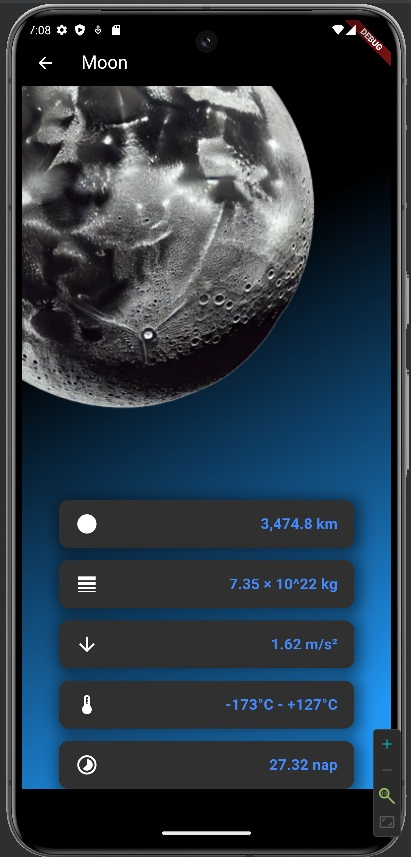
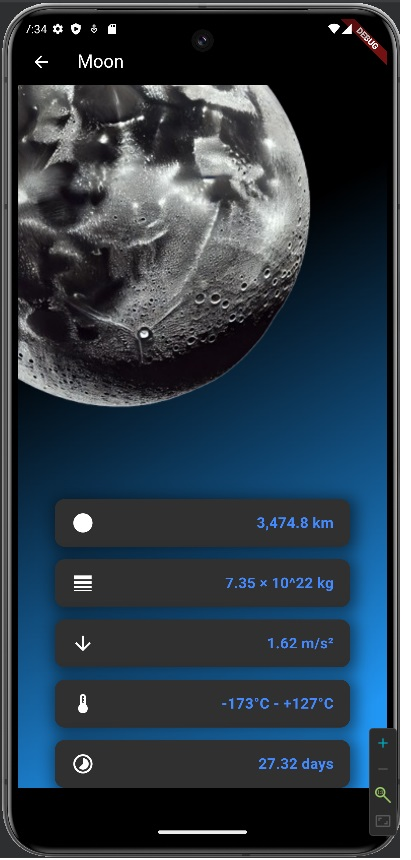
code format and minor fixes

diff --git a/planets/lib/model/planets_model.dart b/planets/lib/model/planets_model.dart
@@ -6,7 +6,6 @@ class CelestialBodyData {
   final String temperature;
   final String orbitalPeriod;
   final String imageUrl;
-  final List<String>? moons;
 
   CelestialBodyData({
     required this.name,
@@ -16,20 +15,18 @@ class CelestialBodyData {
     required this.temperature,
     required this.orbitalPeriod,
     required this.imageUrl,
-    this.moons,
   });
 }
 
 List<CelestialBodyData> getCelestialBodyData() {
   return [
-
     CelestialBodyData(
       name: "Earth",
       diameter: "12,742 km",
       mass: "5.97 × 10^24 kg",
       gravity: "9.81 m/s²",
       temperature: "-89.2°C - +58.3°C",
-      orbitalPeriod: "365.25 nap",
+      orbitalPeriod: "365.25 days",
       imageUrl: 'assets/images/earth.png',
     ),
     CelestialBodyData(
@@ -38,19 +35,17 @@ List<CelestialBodyData> getCelestialBodyData() {
       mass: "7.35 × 10^22 kg",
       gravity: "1.62 m/s²",
       temperature: "-173°C - +127°C",
-      orbitalPeriod: "27.32 nap",
+      orbitalPeriod: "27.32 days",
       imageUrl: 'assets/images/moon.png',
     ),
-
     CelestialBodyData(
       name: "Mars",
       diameter: "6,779 km",
       mass: "6.42 × 10^23 kg",
       gravity: "3.71 m/s²",
       temperature: "-87°C - -5°C",
-      orbitalPeriod: "687 nap",
+      orbitalPeriod: "687 days",
       imageUrl: 'assets/images/mars.png',
     ),
-
   ];
 }

diff --git a/planets/lib/components/scroll_image.dart b/planets/lib/components/scroll_image.dart
@@ -1,5 +1,4 @@
 import 'package:flutter/material.dart';
-
 import '../model/planets_model.dart';
 
 class ScrollImage extends StatefulWidget {
@@ -29,8 +28,7 @@ class _ScrollImageState extends State<ScrollImage> {
         mainAxisAlignment: MainAxisAlignment.spaceEvenly,
         crossAxisAlignment: CrossAxisAlignment.center,
         children: [
-          Container(
-            child: SingleChildScrollView(
+          SingleChildScrollView(
               scrollDirection: Axis.horizontal,
               child: Row(
                 children: [
@@ -67,7 +65,7 @@ class _ScrollImageState extends State<ScrollImage> {
                 ],
               ),
             ),
-          ),
+
         ],
       ),
     );

diff --git a/planets/lib/components/celestial_name.dart b/planets/lib/components/celestial_name.dart
@@ -1,9 +1,6 @@
 import 'package:flutter/material.dart';
 import '../model/planets_model.dart';
 
-import 'package:flutter/material.dart';
-import '../model/planets_model.dart';
-
 class CelestialName extends StatelessWidget {
   final List<CelestialBodyData> celestialDataList;
   final int currentIndex;
@@ -22,7 +19,7 @@ class CelestialName extends StatelessWidget {
       right: 0,
       child: Center(
         child: AnimatedSwitcher(
-          duration: Duration(seconds: 1),
+          duration: const Duration(seconds: 1),
           child: Text(
             celestialDataList[currentIndex].name,
             key: ValueKey<int>(currentIndex),

diff --git a/planets/lib/components/details_card.dart b/planets/lib/components/details_card.dart
@@ -1,7 +1,7 @@
 import 'package:flutter/material.dart';
 
 class DetailCard extends StatelessWidget {
-  final IconData icon;  // Changed from title to icon
+  final IconData icon;
   final String value;
 
   const DetailCard({Key? key, required this.icon, required this.value})
@@ -22,7 +22,7 @@ class DetailCard extends StatelessWidget {
               color: Colors.black.withOpacity(0.5),
               spreadRadius: 5,
               blurRadius: 15,
-              offset:const Offset(3, 3),
+              offset: const Offset(3, 3),
             ),
           ],
         ),

diff --git a/planets/lib/main.dart b/planets/lib/main.dart
@@ -11,9 +11,8 @@ class MyApp extends StatelessWidget {
   // This widget is the root of your application.
   @override
   Widget build(BuildContext context) {
-    return MaterialApp(
+    return const MaterialApp(
       home: HomePages(),
     );
   }
 }
-

diff --git a/planets/README.md b/planets/README.md
@@ -7,4 +7,4 @@ Inspiration: [Click](https://www.youtube.com/watch?v=gzU6_W48Kwc)
 ![Home](assets/images/gh-images/Home.jpg)
 ![Details](assets/images/gh-images/Details.jpg)
 
-[Video](https://www.youtube.com/shorts/5OrWGyX-Z_I)
+[Video](https://youtube.com/shorts/iEXbnxmtVwU)
